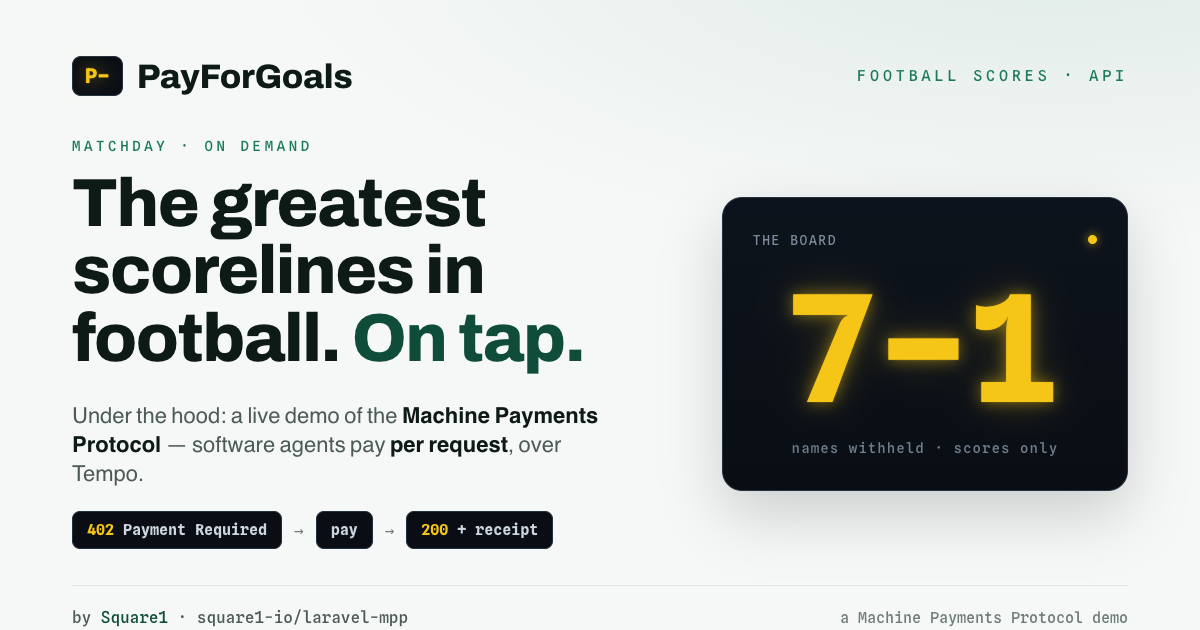
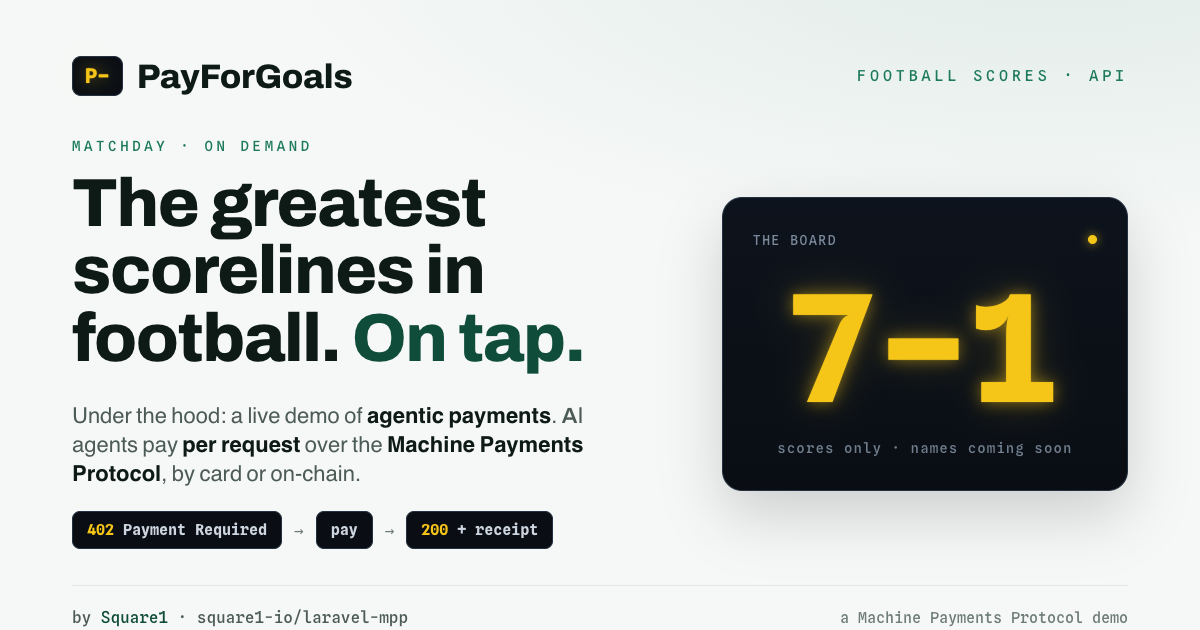
OG update

Changed region(s): [[0.0617, 0.6333, 0.4933, 0.7841], [0.6475, 0.6937, 0.8942, 0.7238]]

diff --git a/resources/og/og.html b/resources/og/og.html
@@ -82,7 +82,7 @@
       <div class="kicker" style="font-size:14px">Matchday &middot; on demand</div>
       <h1 style="margin-top:16px">The greatest<br>scorelines in<br>football. <span class="accent">On tap.</span></h1>
       <div class="tell">
-        <p class="line">Under the hood: a live demo of the <b>Machine Payments Protocol</b> &mdash; software agents pay <b>per request</b>, over Tempo.</p>
+        <p class="line">Under the hood: a live demo of <b>agentic payments</b>. AI agents pay <b>per request</b> over the <b>Machine Payments Protocol</b>, by card or on-chain.</p>
         <div class="flow">
           <span class="step"><span class="amb">402</span> Payment&nbsp;Required</span>
           <span class="arrow">&rarr;</span>
@@ -96,7 +96,7 @@
     <div class="board">
       <div class="cap"><span>The board</span><span class="dot"></span></div>
       <div class="score led">7&ndash;1</div>
-      <div class="sub">names withheld &middot; scores only</div>
+      <div class="sub">scores only &middot; names coming soon</div>
     </div>
   </div>
 

diff --git a/resources/views/landing.blade.php b/resources/views/landing.blade.php
@@ -8,31 +8,63 @@
     $tempoExplorerAddress = rtrim($links['tempo_explorer'], '/').'/address/'.$tempo['recipient'];
     // The famous scorelines that flicker across the hero board.
     $boardScores = ['7–1', '3–3', '4–3', '2–1', '5–1', '0–0', '6–1', '3–2'];
+
+    // Single source of truth for the FAQ: rendered visibly below (answers may
+    // contain links) and emitted as FAQPage structured data with the tags stripped.
+    $lk = fn (string $href, string $text): string =>
+        '<a href="'.$href.'" class="text-turf-bright underline-offset-4 hover:underline" target="_blank" rel="noreferrer">'.$text.'</a>';
+    $faqs = [
+        [
+            'q' => 'What is agentic commerce?',
+            'a' => 'Agentic commerce is buying and selling where the customer is a software agent rather than a person clicking through a checkout. The agent discovers a price, pays for exactly what it needs, and moves on. '.$brand.' is a small working example: an agent pays per request for a single football scoreline.',
+        ],
+        [
+            'q' => 'What is the Machine Payments Protocol (MPP)?',
+            'a' => 'The '.$lk($links['mpp'], 'Machine Payments Protocol (MPP)').' is an open way for a server to charge for an HTTP request and for a client to pay it using standard web mechanics. An unpaid request returns an HTTP 402 Payment Required challenge; the client settles it and retries, and the server returns the resource plus a receipt. It is the rail-agnostic plumbing underneath this demo.',
+        ],
+        [
+            'q' => 'How do machine payments work here?',
+            'a' => 'Machine payments happen inline, per request. There is no account, no checkout page and no stored card. The agent reads the 402 challenge, settles it on one of two rails, then replays the request with an Authorization: Payment header. Settlement is verified before the resource is served.',
+        ],
+        [
+            'q' => 'Which payment rails does '.$brand.' support?',
+            'a' => 'Two. '.$lk($links['stripe_spt'], 'Stripe Shared Payment Tokens').' (SPTs), settled inline as a PaymentIntent, and '.$lk($links['tempo_explorer'], 'Tempo').' pathUSD, an on-chain stablecoin transfer on the Tempo testnet. The same scoreline is sold over both rails; only the wire dialect of the 402 differs.',
+        ],
+        [
+            'q' => 'Do I need an account or a card on file?',
+            'a' => 'No. That is the point of agentic commerce: the buyer pays for one request in the moment, then leaves. Nothing is stored and there is no signup. You can inspect the API shape for free with a single trial score before paying for anything.',
+        ],
+        [
+            'q' => 'Is this a real protocol or just a gimmick?',
+            'a' => 'The demo is real and the payments settle for real (Stripe in test mode, Tempo on testnet). The gating is provided by '.$lk($links['square1'], 'Square1').'\'s open-source package '.$lk($links['package'], 'square1/laravel-mpp').', which drops into any Laravel app. Stripe live acceptance is currently US-gated; Tempo runs on testnet.',
+        ],
+    ];
 @endphp
 <!doctype html>
 <html lang="en" class="dotgrid">
 <head>
     <meta charset="utf-8">
     <meta name="viewport" content="width=device-width, initial-scale=1">
-    <title>{{ $brand }} - relive football's greatest scorelines</title>
-    <meta name="description" content="{{ $brand }} returns the score, and only the score. A live demo of the Machine Payments Protocol over Tempo, by Square1.">
+    <title>{{ $brand }} - Agentic Commerce on the Machine Payments Protocol</title>
+    <meta name="description" content="{{ $brand }} is a live agentic commerce demo on the Machine Payments Protocol (MPP): AI agents pay per request for a football-scores API, by card or on-chain. No signup, no checkout.">
+    <meta name="keywords" content="agentic commerce, machine payments, machine payments protocol, MPP, agentic payments, AI agent payments, pay per request, 402 Payment Required, x402">
     <link rel="canonical" href="{{ $base }}/">
 
     {{-- Open Graph / social sharing --}}
     <meta property="og:type" content="website">
     <meta property="og:site_name" content="{{ $brand }}">
     <meta property="og:url" content="{{ $base }}/">
-    <meta property="og:title" content="{{ $brand }} - football's greatest scorelines, on demand">
-    <meta property="og:description" content="Relive iconic results through a simple API. Under the hood: a live demo of the Machine Payments Protocol - software agents pay per request over Tempo. By Square1.">
+    <meta property="og:title" content="{{ $brand }} - Agentic Commerce on the Machine Payments Protocol">
+    <meta property="og:description" content="Relive iconic results through a simple API. Under the hood: a live demo of agentic payments - AI agents pay per request over the Machine Payments Protocol, by card or on-chain. By Square1.">
     <meta property="og:image" content="{{ $base }}/og.png">
     <meta property="og:image:width" content="1200">
     <meta property="og:image:height" content="630">
-    <meta property="og:image:alt" content="{{ $brand }} - a football scores API that's a live Machine Payments Protocol demo">
+    <meta property="og:image:alt" content="{{ $brand }} - a football scores API that's a live agentic commerce demo on the Machine Payments Protocol">
 
     {{-- Twitter / X --}}
     <meta name="twitter:card" content="summary_large_image">
-    <meta name="twitter:title" content="{{ $brand }} - football's greatest scorelines, on demand">
-    <meta name="twitter:description" content="A football scores API that's secretly a live Machine Payments Protocol demo - agents pay per request over Tempo. By Square1.">
+    <meta name="twitter:title" content="{{ $brand }} - Agentic Commerce on the Machine Payments Protocol">
+    <meta name="twitter:description" content="A football scores API that's secretly a live demo of agentic payments - AI agents pay per request over the Machine Payments Protocol. By Square1.">
     <meta name="twitter:image" content="{{ $base }}/og.png">
 
     {{-- Favicons --}}
@@ -41,6 +73,21 @@
     <link rel="icon" type="image/png" sizes="16x16" href="/favicon-16.png">
     <link rel="apple-touch-icon" href="/apple-touch-icon.png">
     <meta name="theme-color" content="#0a0e14">
+
+    {{-- Structured data: describes the page as an agentic-commerce / Machine Payments Protocol demo. --}}
+    <script type="application/ld+json">
+    {!! json_encode([
+        '@context' => 'https://schema.org',
+        '@type' => 'WebApplication',
+        'name' => $brand,
+        'url' => $base.'/',
+        'applicationCategory' => 'DeveloperApplication',
+        'description' => $brand.' is a live agentic commerce demo on the Machine Payments Protocol (MPP): AI agents pay per request for a football-scores API, by card (Stripe Shared Payment Tokens) or on-chain (Tempo pathUSD).',
+        'offers' => ['@type' => 'Offer', 'price' => $price['match'], 'priceCurrency' => 'USD'],
+        'author' => ['@type' => 'Organization', 'name' => 'Square1', 'url' => $links['square1']],
+        'keywords' => 'agentic commerce, machine payments, Machine Payments Protocol, MPP, AI agent payments, pay per request',
+    ], JSON_UNESCAPED_SLASHES | JSON_PRETTY_PRINT) !!}
+    </script>
 
     @vite(['resources/css/app.css', 'resources/js/app.js'])
 </head>
@@ -58,6 +105,7 @@
             <a href="#premium" class="transition hover:text-turf-bright">Premium</a>
             <a href="#real" class="transition hover:text-turf-bright">Is this real?</a>
             <a href="#start" class="transition hover:text-turf-bright">Get started</a>
+            <a href="#faq" class="transition hover:text-turf-bright">FAQ</a>
         </nav>
         <a href="#api" class="rounded-md bg-turf px-3.5 py-2 font-display text-sm font-700 text-white transition hover:bg-turf-bright">
             Try it out
@@ -85,7 +133,7 @@
         <div class="board flap mt-12 rounded-xl p-6 md:p-8" style="animation-delay: .12s">
             <div class="flex flex-wrap items-baseline justify-between gap-4">
                 <span class="eyebrow" style="color: var(--color-amber-dim)">The board</span>
-                <span class="font-mono text-xs" style="color: #6f7d77">names withheld · scores only</span>
+                <span class="font-mono text-xs" style="color: #6f7d77">scores only · names coming soon</span>
             </div>
             <div class="mt-6 grid grid-cols-4 gap-x-4 gap-y-7 sm:gap-x-6 md:grid-cols-8">
                 @foreach ($boardScores as $i => $s)
@@ -132,7 +180,8 @@
             One resource. Two rails. No checkout.
         </h2>
         <p class="mt-5 max-w-2xl leading-relaxed text-ink-soft">
-            Free to browse, then pick how your agent pays. The same scoreline is exposed twice -
+            Agentic commerce, made concrete: a software agent pays per request over the Machine
+            Payments Protocol. Free to browse, then pick how your agent pays. The same scoreline is exposed twice -
             under <code class="font-mono font-600 text-turf">/tempo/</code> for on-chain settlement and
             <code class="font-mono font-600 text-turf">/stripe/</code> for cards - differing only by rail.
             Either way the client pays per request: no signup, no checkout page. Copy a command and run it.
@@ -329,7 +378,8 @@ curl {{ $base }}/api/v1/stripe/scores/match/1</code></pre>
                 <p>
                     MPP lets a server charge for a request using nothing but HTTP. There's no signup, no
                     checkout page, no stored card. The buyer is usually a <em class="not-italic font-600 text-ink">software agent</em>,
-                    and it pays per request, in the moment, then moves on.
+                    and it pays per request, in the moment, then moves on. This is what agentic commerce
+                    looks like in practice: machine payments settled inline, with no human at a checkout.
                 </p>
                 <p>
                     Those paid {{ $brand }} endpoints above are gated by exactly this package. The same
@@ -609,6 +659,40 @@ Payment-Receipt: id="rcpt_...", method="stripe",
             </div>
         </div>
     </div>
+</section>
+
+{{-- ============================== FAQ ============================== --}}
+<section id="faq" class="border-b" style="border-color: var(--color-line)">
+    <div class="mx-auto max-w-6xl px-5 py-20 md:py-28">
+        <p class="eyebrow">FAQ</p>
+        <h2 class="mt-4 max-w-3xl font-display text-3xl font-800 tracking-tight text-ink md:text-5xl">
+            Agentic commerce and machine payments, explained.
+        </h2>
+        <p class="mt-5 max-w-2xl leading-relaxed text-ink-soft">
+            The short version of what this demo is and how an agent pays for a request.
+        </p>
+
+        <div class="mt-10 grid gap-5 md:grid-cols-2">
+            @foreach ($faqs as $faq)
+                <div class="panel min-w-0 rounded-xl p-6">
+                    <h3 class="font-display text-lg font-700 text-ink">{{ $faq['q'] }}</h3>
+                    <p class="mt-3 text-sm leading-relaxed text-ink-soft">{!! $faq['a'] !!}</p>
+                </div>
+            @endforeach
+        </div>
+    </div>
+
+    <script type="application/ld+json">
+    {!! json_encode([
+        '@context' => 'https://schema.org',
+        '@type' => 'FAQPage',
+        'mainEntity' => array_map(fn ($f) => [
+            '@type' => 'Question',
+            'name' => $f['q'],
+            'acceptedAnswer' => ['@type' => 'Answer', 'text' => strip_tags($f['a'])],
+        ], $faqs),
+    ], JSON_UNESCAPED_SLASHES) !!}
+    </script>
 </section>
 
 </main>

diff --git a/app/Data/Scorelines.php b/app/Data/Scorelines.php
@@ -148,7 +148,8 @@ class Scorelines
 
     /**
      * The public, team-name-free representation of a scoreline — the home and
-     * away goals as separate fields, names conspicuously absent.
+     * away goals as separate fields; team names are not included yet (a
+     * coming-soon premium feature, not a deliberate hold-back).
      *
      * @param  array<string, mixed>  $entry
      * @return array<string, mixed>